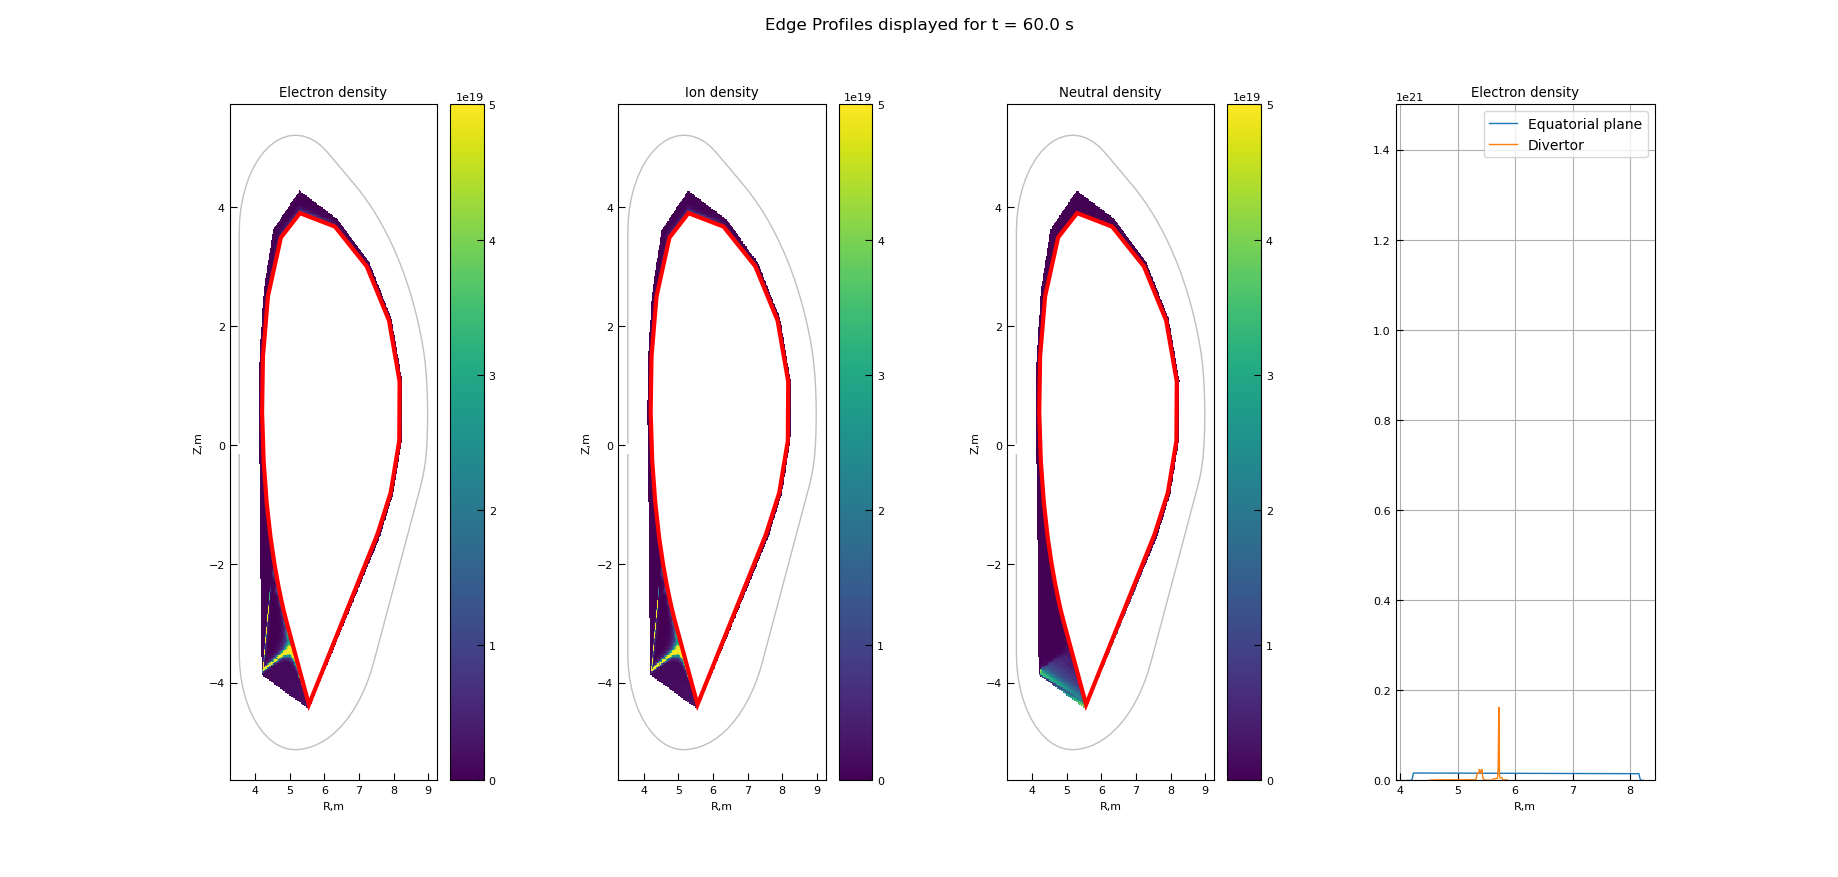
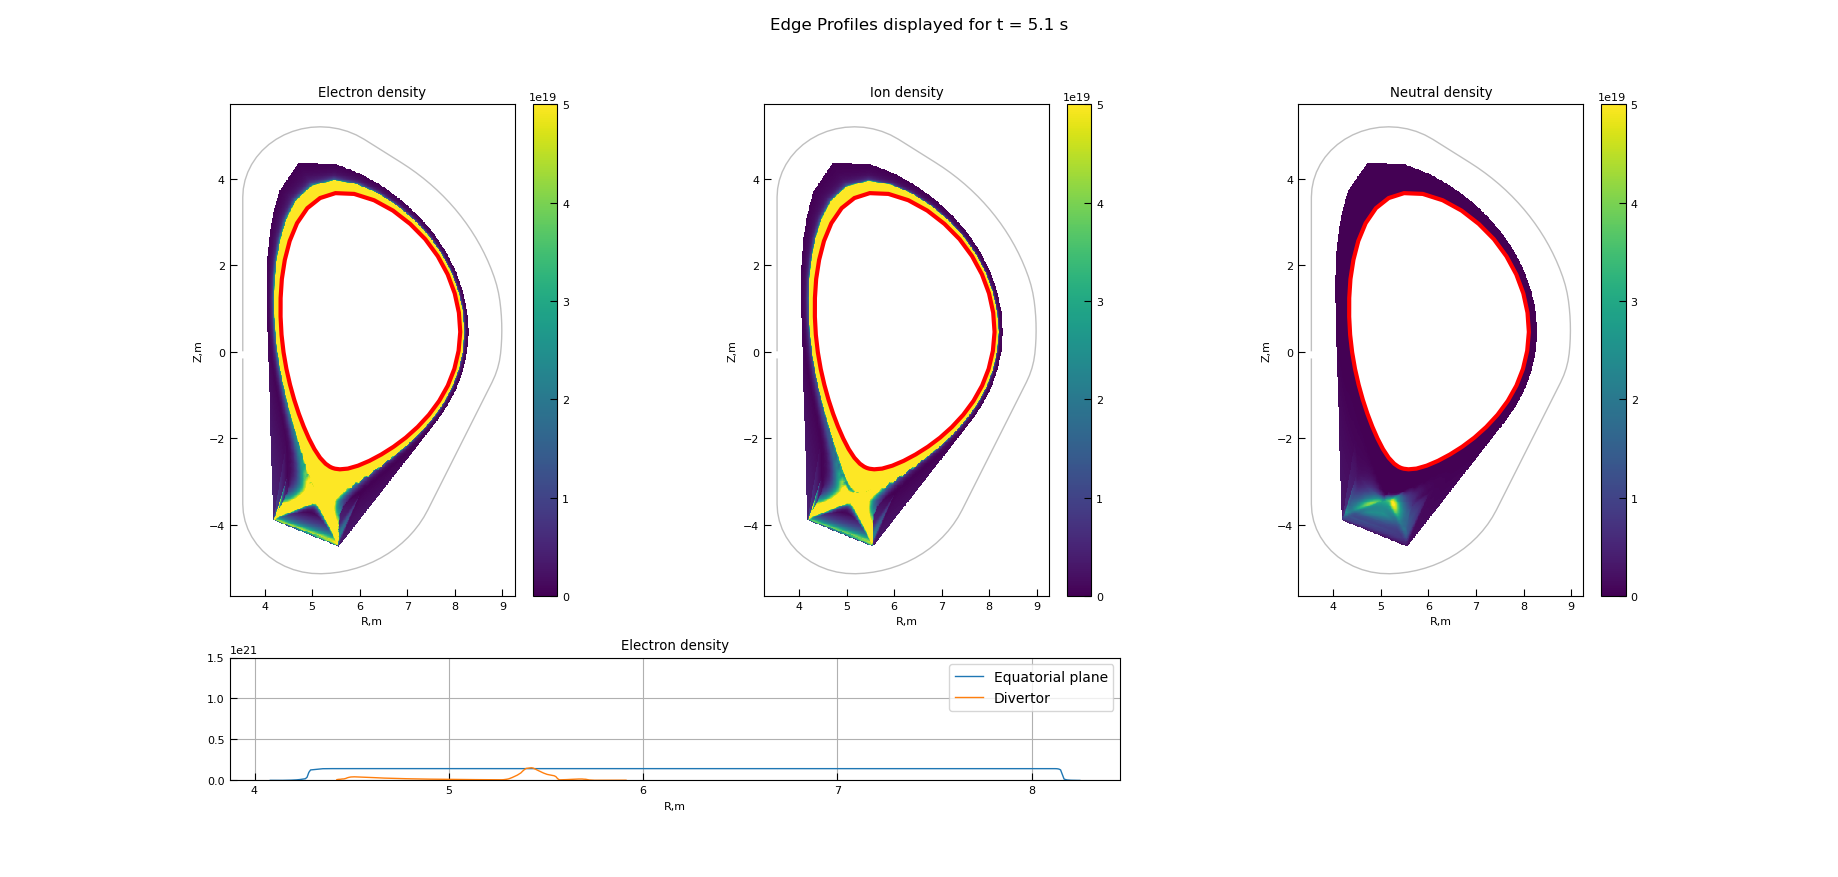
fixed geometry issue in viewedgeprofiles script

diff --git a/idstools/compute/edge_profiles.py b/idstools/compute/edge_profiles.py
@@ -797,7 +797,7 @@ class EdgeProfilesCompute:
                     .object[0]
                     .index
                 ]
-                .geometry[:]
+                .geometry[:2]
             )
         hull = ConvexHull(
             sep_coords[0 : num_sep - 1, :]
@@ -824,7 +824,7 @@ class EdgeProfilesCompute:
                 .space[0]
                 .objects_per_dimension[0]
                 .object[vertex_id]
-                .geometry[:]
+                .geometry[:2]
             )
         r_edge = vertex_coords[:, 0]
         z_edge = vertex_coords[:, 1]

diff --git a/docs/source/viewedgeprofiles.rst b/docs/source/viewedgeprofiles.rst
@@ -1,0 +1,40 @@
+viewedgeprofiles
+================
+
+*viewedgeprofiles* script shows edge profiles plots by interpolating on rectangular grid. It shows Electrons, Ions and Neutral densitiy plots.
+
+Syntax viewedgeprofiles
+~~~~~~~~~~~~~~~~~~~~~~~
+.. code-block:: bash
+
+    $ viewedgeprofiles -h
+    usage: viewedgeprofiles [-h] [-u USER] [--database DATABASE] [--backend BACKEND] [--version VERSION] -s SHOT -r RUN [-t TIME] [--save]
+
+    ---- Edge Profile plot
+
+    optional arguments:
+    -h, --help            show this help message and exit
+    -u USER, --user_or_path USER
+                            user (default=public)
+    --database DATABASE, -d DATABASE
+                            database name (default=ITER)
+    --backend BACKEND, -b BACKEND
+                            backend format (default=MDSPLUS)
+    --version VERSION, -v VERSION
+                            data version (default=3)
+    -s SHOT, --shot SHOT  Shot number
+    -r RUN, --run RUN     Run number
+    -t TIME, --time TIME  Time
+    --save                Save figure at default location
+
+Example viewedgeprofiles
+~~~~~~~~~~~~~~~~~~~~~~~~
+    .. code-block:: bash
+
+        $ viewedgeprofiles -s 123314 -r 1
+
+    .. image:: _static/images/viewedgeprofiles.png
+        :alt: image not found
+        :align: center
+
+

diff --git a/docs/source/analysis_tools.rst b/docs/source/analysis_tools.rst
@@ -7,6 +7,7 @@ Analysis tools aid in the examination of IDS data in terms of plasma composition
 
    viewplasmacompo
    viewecstrayradiation
+   viewedgeprofiles
    viewequilibrium
    viewfluxes
    viewmachinedescription
